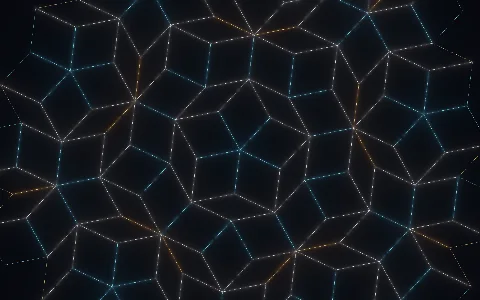
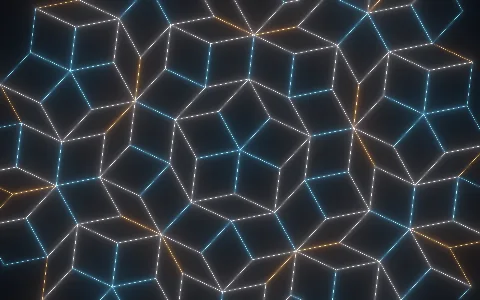
fix: Penrose Tiling froze the render — particle-count mismatch → NaN positions (v0.1.92)
The Penrose archetype computed its own point count (rh.length*4*perEdge
= 43200) and ignored config.particleCount, while the factory declared a
default of 120000. On the worker path the driver allocated buffers for
120000 and copied that many floats from the archetype's 43200-length
position array — reading past the end and writing NaN into ~77k vertex
positions, which stalls the WebGPU pipeline (the "lockup").

Fix: honour config.particleCount (the standard pattern) so the
archetype, main thread, and worker all agree; spread the budget across
the rhombus edges. Bonus: perEdge jumps 90→250, so the edges render as
solid bright lines and the rosettes glow crisply.

diff --git a/src/archetypes/penrose.ts b/src/archetypes/penrose.ts
@@ -79,12 +79,14 @@ class PenroseArchetype implements Archetype {
       }
     }
 
-    const perEdge = 90;
-    const N = Math.max(2048, rh.length * 4 * perEdge);
+    // Respect the requested budget so the archetype's particleCount matches what the driver (main +
+    // worker) was told — a mismatch stalls the SharedArrayBuffer handshake and hangs the render loop.
+    const N = Math.max(2048, config.particleCount);
     this.particleCount = N;
     this.positions = new Float32Array(N * 3);
     this.colors = new Float32Array(N * 3);
     this.bx = new Float64Array(N); this.by = new Float64Array(N);
+    const perEdge = Math.max(4, Math.floor(N / Math.max(1, rh.length * 4))); // spread the budget over the edges
     let idx = 0;
     for (const r of rh) {
       // fat rhombi warm amber, thin rhombi cool cyan (bright for bloom on the thin edges)
@@ -100,7 +102,8 @@ class PenroseArchetype implements Archetype {
         }
       }
     }
-    while (idx < N) { this.bx[idx] = 0; this.by[idx] = 0; idx++; }
+    // any leftover budget parks off-frame with colour 0 (invisible)
+    while (idx < N) { this.bx[idx] = 0; this.by[idx] = -46; idx++; }
     this.readParams(config.params);
     this.syncPositions();
   }

diff --git a/src/meta/changelog.ts b/src/meta/changelog.ts
@@ -18,6 +18,16 @@ export interface Release {
 
 export const RELEASES: Release[] = [
   {
+    "version": "0.1.92",
+    "date": "2026-07-13",
+    "title": "Fix: Penrose Tiling froze the render",
+    "summary": "The Penrose Tiling could lock up on load. Its archetype produced a different point count than the driver was told, so the worker wrote past the end of its buffer — filling positions with NaN, which stalls the GPU. Fixed by having the tiling honour the requested particle budget; it now also renders denser, brighter rhombus edges.",
+    "newSystems": [],
+    "notes": [
+      "Fix: Penrose Tiling now respects the driver's particle count (no more count mismatch → no NaN vertex positions → no GPU stall). Bonus: edges are drawn with far more points, so the rhombi and ten-fold rosettes glow crisply."
+    ]
+  },
+  {
     "version": "0.1.91",
     "date": "2026-07-13",
     "title": "Prime Spiral — number theory on a sunflower",

diff --git a/src/version.ts b/src/version.ts
@@ -2,4 +2,4 @@
 // image records the version that produced it). Bump the PATCH on every shipped change — new
 // systems, features, or any change to the snapshot/import file format or its validation — even
 // when backward-compatible. Bump MINOR for larger feature waves, MAJOR for breaking format changes.
-export const APP_VERSION = '0.1.91';
+export const APP_VERSION = '0.1.92';
